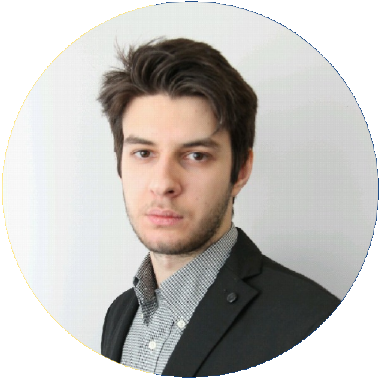
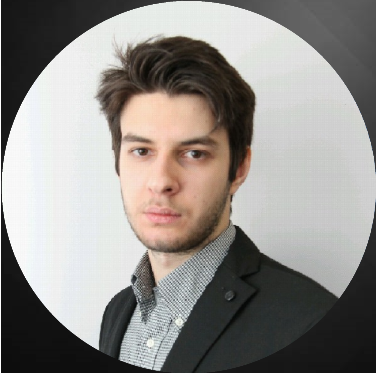
Update

diff --git a/styles.css b/styles.css
@@ -34,7 +34,7 @@ h2 {
 
 canvas {
     background-color: #f0f0f0; /* Fallback color */
-    background-image: url('Background\ Image.jpg'); /* Your image */
+    background-image: url('Profile.png'); /* Your image */
     background-size: cover;
     width: 50%;
 }
